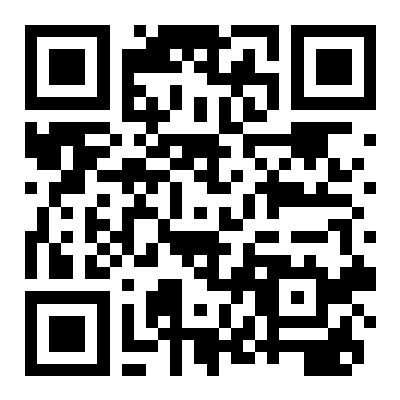
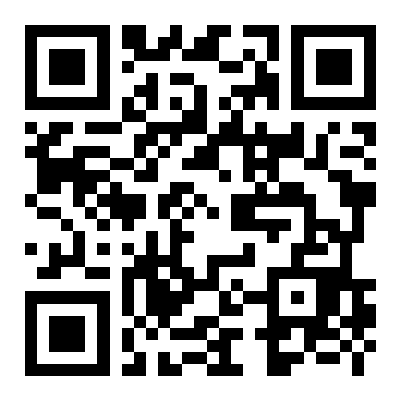
feat: 替换正式地址

diff --git a/README.md b/README.md
@@ -13,7 +13,7 @@
 </p>
 
 <p align="center">
-  🌐 **在线演示：** [https://uni-lite.vercel.app/](https://uni-lite.vercel.app/)
+  🌐 **在线演示：** [https://demo.uni-lite.cn/]
 </p>
 
 <p align="center">
